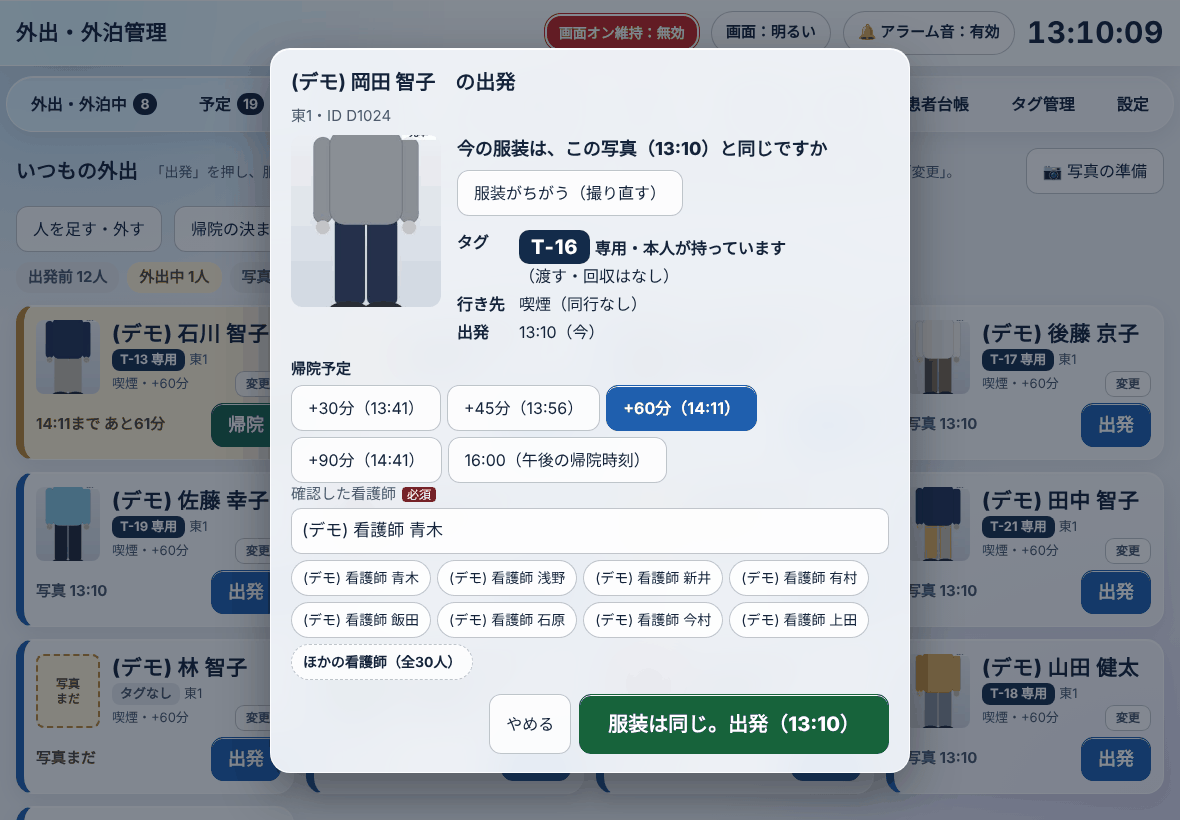
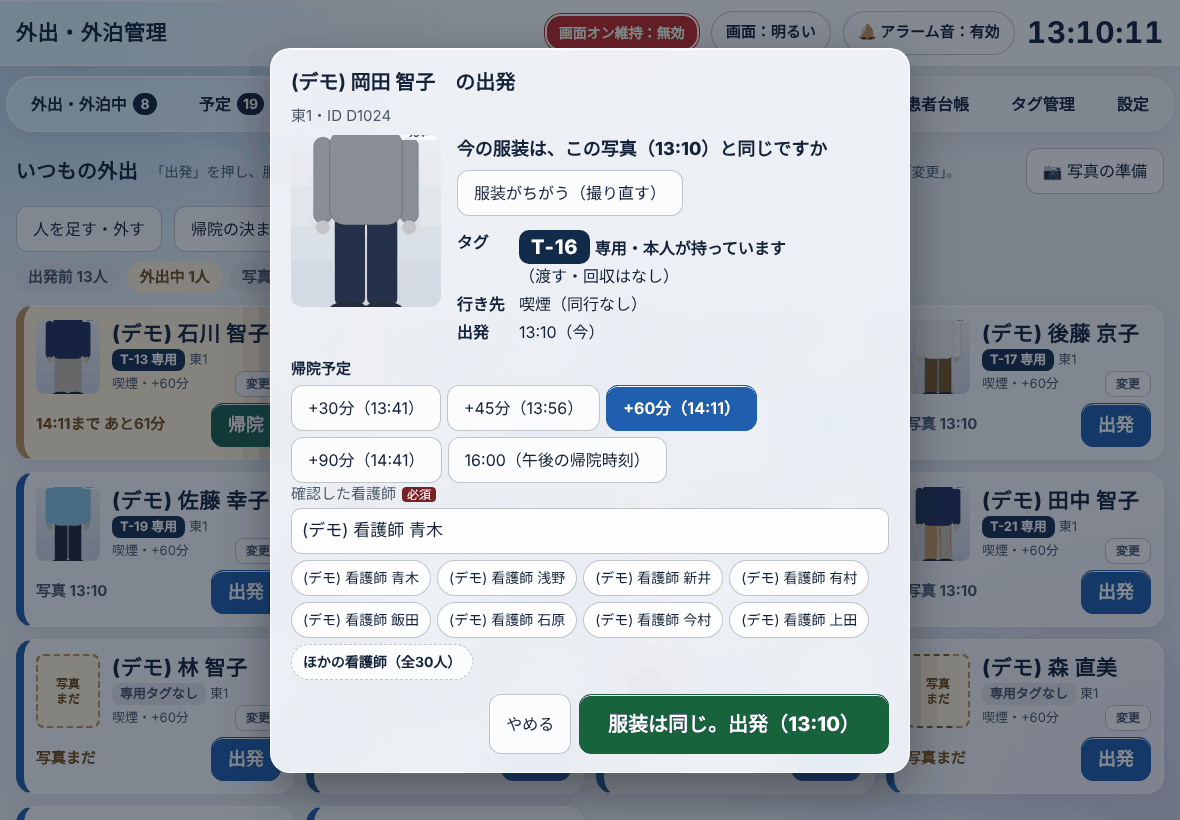
0.3.0：専用タグのない人に、出発の時だけタグを渡せるように
- 出発の画面に「渡すタグ」（必須）：使えるふつうのタグか「タグなし」を選ぶ。選んだタグはタグの行に大きく出る
- 同意書の取得日が台帳にない人・使えるタグがない時は欄を出さず、理由を出してタグなしで出発
- 渡したタグは貸出中になり、カードに「T-xx 貸出中」。帰院で回収を確かめる
- テスト：test_v030_kashidashi（18項目）を追加。41/41 合格
- 画面写真：docs/screens_v0.3.0 に 7〜7c を追加

Claude-Session: https://claude.ai/code/session_01LagbLejwrt8KJ46nEc5gzu

diff --git a/index.html b/index.html
@@ -706,7 +706,8 @@ html{scroll-padding-top:var(--stickt,0px);scroll-padding-bottom:var(--stickb,0px
 .it-cam{display:inline-flex;align-items:center;color:var(--ink);margin:0 0 6px}
 .it-kv{display:grid;grid-template-columns:auto 1fr;gap:4px 14px;font-size:16px;margin:4px 0}.it-kv b{white-space:nowrap}
 .it-lbl{font-size:15px;font-weight:800;margin:10px 0 4px}
-.it-due .btn{white-space:nowrap}
+.it-due .btn,.it-lend .btn{white-space:nowrap}.it-lend .btn{min-width:72px}
+.it-lend.invalid{outline:2px solid var(--bad);outline-offset:3px;border-radius:12px}
 .it-pick{margin-top:8px;max-height:52vh;overflow:auto}
 .it-prow{display:flex;align-items:center;gap:10px;padding:8px 4px;border-bottom:1px solid var(--line2)}.it-prow .sp{flex:1}.it-prow b{white-space:nowrap}
 @media (max-width:1100px) and (min-width:700px){nav button{font-size:15px;padding:0 9px}nav .cnt{margin-left:3px;min-width:22px;padding:0 5px}}
@@ -2797,7 +2798,7 @@ function itTagRow(t,going){return t?`<b>タグ</b><span><span class="it-tagbig">
 /* 画面 */
 function itTileHTML(p,now){
   const o=itActive(p),c=itConf(p),t=ownedTag(p);let cls='',st='';
-  const tagHtml=t?`<span class="it-tag">${esc(t.id)} 専用</span>`:'<span class="it-tag none">タグなし</span>';
+  const tagHtml=t?`<span class="it-tag">${esc(t.id)} 専用</span>`:o&&o.tagId?`<span class="it-tag">${esc(o.tagId)} 貸出中</span>`:'<span class="it-tag none">専用タグなし</span>';
   const phKey=o&&o.hasPhoto?o.id:(hasPrep(p)?prepKey(p.id):'');
   const ph=phKey?`<div class="it-ph"><img data-itph="${esc(phKey)}" alt="服装写真"></div>`:'<div class="it-noph">写真<br>まだ</div>';
   if(itPrepMode){
@@ -2846,12 +2847,19 @@ function dlgItGo(p){
   if(itActive(p)){toast(`${p.name} さんはすでに外出・外泊中です`);return;}
   const c=itConf(p),t=ownedTag(p),cs=consentState(p),opts=itDueOpts(p,now);let shot=null,shotURL=null;
   const pre=hasPrep(p);
+  // 0.3.0：専用タグのない人は、渡すタグを選ぶ（同意書の取得日が台帳にある人だけ）。渡さない時は「タグなし」を押す
+  const lendAv=t?[]:tags.filter(x=>x.status==='available'&&!x.owner).sort((a,b)=>String(a.id).localeCompare(String(b.id),'ja',{numeric:true}));
+  const canLend=!t&&cs.st==='ok'&&lendAv.length>0;
+  const lendNote=t?'':cs.st==='withdrawn'?`同意を撤回しているため（${ymd(cs.date)}）、タグは渡せません。`:cs.st!=='ok'?'同意書の取得日が患者台帳にないため、タグは渡せません。':!lendAv.length?'今、渡せるタグがありません（タグ管理で確かめてください）。':'';
   openDlg(`${p.name}　の出発`,`
     <div class="it-dsub">${esc(wardText(p))}${p.pid?'・ID '+esc(p.pid):''}</div>
     <div class="it-drow"><div class="it-dph" id="itGoPh">${pre?'<img alt="服装写真">':'<div class="it-noph big">写真<br>まだ</div>'}</div>
       <div><div class="it-q" id="itGoQ">${pre?`今の服装は、この写真（${hm(p.itsumoPhotoAt)}）と<span class="nw">同じですか</span>`:'撮っておいた写真がありません。<span class="nw">今、撮ってください。</span>'}</div>
         <label class="btn it-cam">${pre?'服装がちがう（撮り直す）':'📷 撮る'}<input type="file" accept="image/*" capture="environment" id="itGoIn" hidden></label>
-        <div class="it-kv">${itTagRow(t,true)}<b>行き先</b><span>${esc(c.dest)}（同行なし）</span><b>出発</b><span>${hm(now)}（今）</span></div></div></div>
+        <div class="it-kv">${t?itTagRow(t,true):canLend?`<b>タグ</b><span id="itLendShow"><span class="it-sub">下で選んでください</span></span>`:itTagRow(null,true)}<b>行き先</b><span>${esc(c.dest)}（同行なし）</span><b>出発</b><span>${hm(now)}（今）</span></div></div></div>
+    ${canLend?`<div class="it-lbl">渡すタグ<span class="req">必須</span><span class="it-sub" style="font-weight:600;font-size:13px;margin-left:8px">渡さない時は「タグなし」</span></div>
+    <div class="seg it-lend" id="itLendSeg">${lendAv.map(x=>`<button type="button" class="btn" data-itlend="${esc(x.id)}">${esc(x.id)}</button>`).join('')}<button type="button" class="btn" data-itlend="">タグなし</button></div>
+    <input type="hidden" name="lend" value="-">`:lendNote?`<p class="hint" style="margin:6px 0 0">${esc(lendNote)}</p>`:''}
     <div class="it-lbl">帰院予定</div><div class="seg it-due">${opts.map(x=>`<button type="button" class="btn${x.def?' on':''}" data-itdue="${x.at}">${esc(x.label)}</button>`).join('')}</div>
     <input type="hidden" name="due" value="${opts.find(x=>x.def).at}">
     <label>確認した看護師<span class="req">必須</span><input name="nurse" list="nurseList" value="${esc(settings.itsumoNurse||'')}"></label>
@@ -2863,23 +2871,30 @@ function dlgItGo(p){
     if(t&&cs.st!=='ok')E.push([null,cs.st==='withdrawn'?'同意を撤回しているため、専用タグを持たせて出発できません（患者台帳で専用タグを外してください）':'同意書の取得日が患者台帳にないため出発できません（患者台帳で取得日を入れてください）']);
     if(itActive(p))E.push([null,`${p.name} さんはすでに外出・外泊中です`]);
     if(t&&!(t.status==='available'))E.push([null,`専用タグ ${t.id} は今「${TAG_ST[t.status]||t.status}」です。タグ管理で確かめてください`]);
+    const lendId=canLend?val(f,'lend'):'';let lt=null;
+    if(canLend&&lendId==='-')E.push([$('#itLendSeg'),'渡すタグを選んでください（渡さない時は「タグなし」）']);
+    else if(lendId){lt=tags.find(x=>x.id===lendId);if(!lt||lt.status!=='available'||lt.owner)E.push([$('#itLendSeg'),`タグ ${lendId} は今は使えません。ほかのタグを選んでください`]);}
     if(E.length)return fieldErrs(f,E);
+    const gt=t||lt;   // 持たせるタグ（専用 または 今回だけ渡す）
     let blob=shot;if(!blob&&pre)blob=await dbGet('photos',prepKey(p.id));
     const o={id:uid(),name:p.name,pid:p.pid||'',kana:p.kana||'',sex:p.sex||'',age:ageOf(p)||'',ward:p.ward||'',adm:p.adm||'',kind:'外出',departAt:at,dueAt:due,dueAtOriginal:due,
       dest:c.dest,selfTel:p.selfTel||'',famName:p.famName||'',famRel:p.famRel||'',famTel:p.famTel||'',alone:true,compName:'',compRel:'',compTel:'',clothes:'',
-      tagId:t?t.id:'',consent:!!t,consentDate:t?cs.date:'',departNurse:nurse,note:'いつもの外出',status:'out',createdAt:at,hasPhoto:!!blob,itsumo:true,tagOwned:!!t,log:[]};
+      tagId:gt?gt.id:'',consent:!!gt,consentDate:gt?cs.date:'',departNurse:nurse,note:'いつもの外出',status:'out',createdAt:at,hasPhoto:!!blob,itsumo:true,tagOwned:!!t,log:[]};
     if(p.demo)o.demo=true;
-    addLog(o,'外出に出発（いつもの外出）'+(t?`（専用タグ ${t.id}・同意書 ${ymd(o.consentDate)} 取得）`:'（タグなし）'),nurse);
+    addLog(o,'外出に出発（いつもの外出）'+(t?`（専用タグ ${t.id}・同意書 ${ymd(o.consentDate)} 取得）`:lt?`（タグ ${lt.id} を渡す・同意書 ${ymd(o.consentDate)} 取得）`:'（タグなし）'),nurse);
     if(blob)addLog(o,shot?'服装写真を登録（出発時に撮影）':`服装写真を確認（${hm(p.itsumoPhotoAt)} に撮影したもの）`,nurse);
     o.patientId=(await upsertPatient(o,p.id)).id;
     await saveOuting(o);if(blob)await dbPut('photos',blob,o.id);
     await dropPrep(p);
-    if(t){t.status='inuse';t.outingId=o.id;await saveTag(t);}
+    if(gt){gt.status='inuse';gt.outingId=o.id;await saveTag(gt);}
     outings.push(o);settings.itsumoNurse=nurse;rememberNurse(nurse);if(shotURL)URL.revokeObjectURL(shotURL);
     lastSig='';itSig='';await tick();toast(`${p.name} さんが出発しました（帰院予定 ${hm(due)}）`);
   }}]);
   const goBtn=$('#dlgActions').lastElementChild;const label=()=>{goBtn.textContent=(shot||pre?'服装は同じ。出発':'写真なしで出発')+`（${hm(Date.now())}）`;};label();
   if(pre)getPhotoURL(prepKey(p.id)).then(u=>{const im=$('#itGoPh img');if(im&&u)im.src=u;});
+  if(canLend)$('#itLendSeg').addEventListener('click',e=>{const b=e.target.closest('[data-itlend]');if(!b)return;$$('#itLendSeg [data-itlend]').forEach(x=>x.classList.toggle('on',x===b));
+    $('#dlgForm').elements.lend.value=b.dataset.itlend;$('#itLendSeg').classList.remove('invalid');$('#dlgBody').querySelectorAll('.ferr').forEach(x=>x.remove());
+    $('#itLendShow').innerHTML=b.dataset.itlend?`<span class="it-tagbig">${esc(b.dataset.itlend)}</span> <span class="nw">（今回だけ渡す・帰院で回収）</span>`:'<span class="it-tagbig none">タグなし</span> <span class="nw">（タグを持たずに出かけます）</span>';});
   $('#dlgBody').querySelector('.it-due').addEventListener('click',e=>{const b=e.target.closest('[data-itdue]');if(!b)return;$$('#dlgBody [data-itdue]').forEach(x=>x.classList.toggle('on',x===b));$('#dlgForm').elements.due.value=b.dataset.itdue;});
   $('#itGoIn').addEventListener('change',async e=>{const f=e.target.files[0];e.target.value='';if(!f)return;
     try{shot=await compress(f);if(shotURL)URL.revokeObjectURL(shotURL);shotURL=URL.createObjectURL(shot);$('#itGoPh').innerHTML=`<img src="${shotURL}" alt="服装写真">`;

diff --git a/tests/test_v030_kashidashi.py b/tests/test_v030_kashidashi.py
@@ -1,0 +1,99 @@
+"""0.3.0「いつもの外出」で、専用タグのない人に出発の時だけタグを渡す：assert で確かめる。
+(a) 専用タグのない人（同意書の取得日あり）：出発の画面に「渡すタグ（必須）」。使えるふつうのタグと「タグなし」が並び、専用タグ・貸出中のタグは出ない。
+(b) 何も選ばずに出発 → 欄のそばに知らせ。タグを選ぶとタグの行に大きく出る。
+(c) 出発 → 記録にタグ（専用ではない）、タグは貸出中。カードに「T-xx 貸出中」。
+(d) 帰院：回収のチェックが出る（回収した → 利用可）。記録は「回収」。
+(e) 「タグなし」を選んで出発もできる（タグは空）。
+(f) 同意書の取得日がない人：渡すタグの欄は出ず、「タグは渡せません」の説明。タグなしで出発できる。
+(g) 専用タグのある人には、渡すタグの欄は出ない。
+"""
+import os
+from playwright.sync_api import sync_playwright
+from v200_util import jst
+
+HERE = os.path.dirname(os.path.abspath(__file__)); APP = os.path.dirname(HERE)
+URL = 'file://' + APP + '/index.html'
+N = [0]
+errs = []
+
+
+def ok(cond, msg=''):
+    N[0] += 1
+    assert cond, msg
+
+
+def btn(pg, text):
+    pg.locator('#dlgActions button', has_text=text).click(); pg.wait_for_timeout(500)
+
+
+with sync_playwright() as p:
+    b = p.chromium.launch()
+    ctx = b.new_context(viewport={'width': 1180, 'height': 820}, timezone_id='Asia/Tokyo', device_scale_factor=1, has_touch=True)
+    pg = ctx.new_page(); pg.on('pageerror', lambda e: errs.append(str(e)))
+    pg.clock.install(time=jst(2026, 11, 18, 13, 0))
+    pg.goto(URL); pg.wait_for_timeout(600); pg.click('#startOv'); pg.wait_for_timeout(200)
+    pg.evaluate("window.tone=function(){}")
+    pg.click('nav button[data-tab=settings]'); pg.click('#demoIn')
+    pg.wait_for_function("document.getElementById('toast').textContent.includes('デモデータを入れました')", timeout=30000)
+    # 専用タグのない「いつもの外出」の人を3人：D1041・D1042（同意書あり）、D1043（同意書なし）
+    ids = pg.evaluate("""(()=>{const r={};for(const [pid,c] of [['D1041','2026-10-01'],['D1042','2026-10-01'],['D1043','']]){
+      const p=patients.find(q=>q.pid===pid);p.itsumo={on:true,dest:'喫煙'};p.consentDate=c;p.consentWithdrawn='';dbPut('patients',p);r[pid]=p.id;}
+      itSig='';return r;})()""")
+    pg.click('nav button[data-tab=itsumo]'); pg.wait_for_timeout(800)
+    a, b2, c = ids['D1041'], ids['D1042'], ids['D1043']
+    ok('専用タグなし' in pg.inner_text(f'[data-itp="{a}"]'))
+
+    # (a)
+    pg.click(f'[data-itgo="{a}"]'); pg.wait_for_timeout(500)
+    ok(pg.locator('#itLendSeg').count() == 1)
+    lend = pg.evaluate("[...document.querySelectorAll('#itLendSeg [data-itlend]')].map(x=>x.dataset.itlend)")
+    av = pg.evaluate("tags.filter(t=>t.status==='available'&&!t.owner).map(t=>t.id)")
+    ok(lend[-1] == '' and sorted(lend[:-1]) == sorted(av) and len(av) > 0, (lend, av))
+    ok(not any(pg.evaluate("tags.filter(t=>t.owner||t.status!=='available').map(t=>t.id)").count(x) for x in lend[:-1]))
+    # (b)
+    pg.fill('#dlgBody input[name=nurse]', '(デモ) 看護師 見本')
+    btn(pg, '出発')
+    ok(pg.locator('#dlg').evaluate('d=>d.open') and '渡すタグを選んでください' in pg.inner_text('#dlg .ferr'), pg.inner_text('#dlg'))
+    tid = lend[0]
+    pg.click(f'#itLendSeg [data-itlend="{tid}"]'); pg.wait_for_timeout(200)
+    ok(tid in pg.inner_text('#itLendShow') and '回収' in pg.inner_text('#itLendShow'))
+    ok(pg.locator('#dlg .ferr').count() == 0)
+    btn(pg, '出発')
+    # (c)
+    o = pg.evaluate("id=>{const o=outings.find(x=>x.patientId===id&&x.status==='out');return o&&{id:o.id,tag:o.tagId,own:o.tagOwned,cons:o.consent,log:o.log.map(l=>l.text).join('|')}}", a)
+    ok(o and o['tag'] == tid and not o['own'] and o['cons'] and f'タグ {tid} を渡す' in o['log'], o)
+    ok(pg.evaluate("t=>{const x=tags.find(y=>y.id===t);return x.status+':'+(x.owner||'')}", tid) == 'inuse:')
+    pg.wait_for_timeout(1200)
+    ok(f'{tid} 貸出中' in pg.inner_text(f'[data-itp="{a}"]'), pg.inner_text(f'[data-itp="{a}"]'))
+    # (d) 帰院：回収
+    pg.click(f'[data-itback="{o["id"]}"]'); pg.wait_for_timeout(400)
+    ok(pg.locator('#dlgBody input[name=tagBack]').count() == 1 and pg.locator('#dlgBody input[name=tagBack]').is_checked())
+    btn(pg, '帰院')
+    r = pg.evaluate("id=>{const o=outings.find(x=>x.id===id);const t=tags.find(x=>x.id===o.tagId);return {st:o.status,back:o.tagReturned,kept:!!o.tagKept,ts:t.status,ow:t.owner||'',col:COLS.find(c=>c[0]==='タグ回収')[1](o)}}", o['id'])
+    ok(r == {'st': 'returned', 'back': True, 'kept': False, 'ts': 'available', 'ow': '', 'col': '回収'}, r)
+    # (e) タグなし
+    pg.wait_for_timeout(800)
+    pg.click(f'[data-itgo="{b2}"]'); pg.wait_for_timeout(500)
+    pg.click('#itLendSeg [data-itlend=""]'); pg.wait_for_timeout(200)
+    ok('タグなし' in pg.inner_text('#itLendShow'))
+    btn(pg, '出発')
+    o2 = pg.evaluate("id=>{const o=outings.find(x=>x.patientId===id&&x.status==='out');return o&&{tag:o.tagId,log:o.log.map(l=>l.text).join('|')}}", b2)
+    ok(o2 and o2['tag'] == '' and '（タグなし）' in o2['log'], o2)
+    # (f) 同意書なし
+    pg.wait_for_timeout(800)
+    pg.click(f'[data-itgo="{c}"]'); pg.wait_for_timeout(500)
+    ok(pg.locator('#itLendSeg').count() == 0 and 'タグは渡せません' in pg.inner_text('#dlgBody'))
+    ok(pg.locator('#dlgBody .it-tagbig.none').count() == 1)
+    btn(pg, '出発')
+    ok(pg.evaluate("id=>!!outings.find(x=>x.patientId===id&&x.status==='out'&&!x.tagId)", c))
+    # (g) 専用タグのある人
+    pg.wait_for_timeout(800)
+    d = pg.evaluate("patients.find(p=>p.pid==='D1022').id")
+    pg.click(f'[data-itgo="{d}"]'); pg.wait_for_timeout(500)
+    ok(pg.locator('#itLendSeg').count() == 0 and '専用' in pg.inner_text('#dlgBody .it-kv'))
+    pg.screenshot(path=os.path.join(HERE, 'out', 'v030_kashidashi_g.png'))
+    btn(pg, 'やめる')
+    ctx.close(); b.close()
+
+print('checks', N[0])
+print('errors', errs)

diff --git a/tests/make_screens_v030.py b/tests/make_screens_v030.py
@@ -59,8 +59,12 @@ with sync_playwright() as p:
     pg.click(f'[data-itgo="{o}"]'); pg.wait_for_timeout(400); pg.fill('#dlgBody input[name=nurse]', '(デモ) 看護師 青木'); pg.locator('#dlgActions button').last.click(); pg.wait_for_timeout(600)
     oid = pg.evaluate("id=>outings.find(x=>x.patientId===id&&x.status==='out').id", o)
     pg.click(f'[data-itback="{oid}"]'); pg.wait_for_timeout(500); shot(pg, '6_kiin_tag'); pg.locator('#dlgActions button', has_text='やめる').click(); pg.wait_for_timeout(300)
-    x = pg.evaluate("(()=>{const p=patients.find(q=>q.pid==='D1041');p.itsumo={on:true,dest:'喫煙'};dbPut('patients',p);itSig='';renderItsumo(true);return p.id})()"); pg.wait_for_timeout(600)
-    pg.click(f'[data-itgo="{x}"]'); pg.wait_for_timeout(500); shot(pg, '7_shuppatsu_tagnashi'); pg.locator('#dlgActions button', has_text='やめる').click(); pg.wait_for_timeout(300)
+    x = pg.evaluate("(()=>{const p=patients.find(q=>q.pid==='D1041');p.itsumo={on:true,dest:'喫煙'};p.consentDate='2026-10-01';p.consentWithdrawn='';dbPut('patients',p);itSig='';renderItsumo(true);return p.id})()"); pg.wait_for_timeout(600)
+    pg.click(f'[data-itgo="{x}"]'); pg.wait_for_timeout(500); shot(pg, '7_shuppatsu_tag_erabu')
+    pg.locator('#itLendSeg [data-itlend]').first.click(); pg.wait_for_timeout(300); shot(pg, '7b_shuppatsu_tag_eranda')
+    pg.locator('#dlgActions button', has_text='やめる').click(); pg.wait_for_timeout(300)
+    y = pg.evaluate("(()=>{const p=patients.find(q=>q.pid==='D1043');p.itsumo={on:true,dest:'喫煙'};p.consentDate='';p.consentWithdrawn='';dbPut('patients',p);itSig='';renderItsumo(true);return p.id})()"); pg.wait_for_timeout(600)
+    pg.click(f'[data-itgo="{y}"]'); pg.wait_for_timeout(500); shot(pg, '7c_shuppatsu_doui_nashi'); pg.locator('#dlgActions button', has_text='やめる').click(); pg.wait_for_timeout(300)
     pg.click(f'[data-itedit="{o}"]'); pg.wait_for_timeout(400); shot(pg, '8_henkou'); pg.locator('#dlgActions button', has_text='やめる').click(); pg.wait_for_timeout(300)
     pg.click(f'[data-itgo="{pid_id(pg, "D1024")}"]'); pg.wait_for_timeout(600); shot(pg, '5_shuppatsu_gogo_1310')
     ctx.close()

diff --git a/CLAUDE.md b/CLAUDE.md
@@ -102,6 +102,9 @@
   `itDueOpts`：amEnd より前の出発は amEnd。amEnd〜pmEnd は pmPlus 分後、ただし pmEnd まで pmPlus 分を切っていたら pmEnd。pmEnd 以降は pmPlus 分後。
   決まった時刻より後になる「+○分」の候補は出さない。カードの「11:30まで／+60分／16:00まで」は `itDueText`。
 - 出発（`dlgItGo`）・帰院（`dlgItBack`）の画面に「タグ」の行（`itTagRow`。専用なら大きく「T-13 専用」、ないなら「タグなし」）。
+- 専用タグのない人は、出発の画面で「渡すタグ」（`#itLendSeg`、必須）を選ぶ：使えるふつうのタグ（利用可・専用でない）か「タグなし」。
+  同意書の取得日が台帳にない人・撤回した人・使えるタグがない時は欄を出さず、説明を出してタグなしで出発。渡したタグは帰院で回収を確かめる（ふつうの外出と同じ）。
+  カードには外出中だけ「T-xx 貸出中」、ふだんは「専用タグなし」。
   看護師名は必須（前回の人 `settings.itsumoNurse` を入れておく）。記録は `o.itsumo=true`、`note:'いつもの外出'`、ふつうの外出と同じ形（アラーム・一覧・集計はそのまま）。
 - 帰院（`dlgItBack`）：看護師名は必須。写真は消える。「帰院時の確認も書く」でふつうの帰院登録（`dlgReturn`）に移れる。
 - 服装の写真の準備：photos ストアに `'prep:'+患者の台帳id` で置き、`p.itsumoPhotoAt` に撮った時刻。出発でその外出の写真（キーは外出の id）に移し、準備の分は消す（帰院で消える決まりはそのまま）。
@@ -109,7 +112,7 @@
 - 専用タグ：`tags` の `owner` に患者の台帳id。ほかの人の新規登録・予定の出発では選べない（`tagFree`）。帰院で回収せず `available` に戻し（`itTagOnReturn`）、記録に `o.tagKept=true`（一覧の「タグ回収」は「本人が所持（専用）」）。
   タグ管理に「〇〇さん 専用」と「専用をやめる」。持たせられるのは同意書の取得日が台帳にある人だけ。
 - デモ：台帳の21〜32人目（D1021〜D1032）が「いつもの外出」。専用タグは T-11 から空いている番号（デモの予定が T-10〜T-12 を予約するので、ふつうは T-13〜T-24）。9人は写真を撮っておいた状態。
-- テスト：`tests/test_v020_itsumo.py`・`tests/test_v030_kiin_kimari.py`。画面写真は `tests/make_screens_v020.py`・`make_screens_v030.py`（suite には入れない。256色で保存）。
+- テスト：`tests/test_v020_itsumo.py`・`tests/test_v030_kiin_kimari.py`・`tests/test_v030_kashidashi.py`。画面写真は `tests/make_screens_v020.py`・`make_screens_v030.py`（suite には入れない。256色で保存）。
 
 ## 報告（日本語）
 最後に次の3つを分けて書く：

diff --git a/docs/改善メモ.md b/docs/改善メモ.md
@@ -17,8 +17,9 @@
 - 自分で決めたこと（先生の確認待ち）：同じ日の2回目の外出では写真を撮り直す（帰院で写真が消える決まりを弱めないため）／同行は「なし」だけ。
 - 0.3.0（2026-11-18 先生の指示）：帰院予定は病棟の決まりで選ぶ。お昼は 11:30 まで、午後は 16:00 まで。午前は 11:30、午後は1時間後、16:00 まで1時間を切ったら 16:00。
   決まりはアプリ全体で1つにし「帰院の決まり」で変えられるようにした（人ごとの帰院予定の設定はやめた）。
-  16:00 を過ぎた後の出発は 60分後にしている（先生の確認待ち）。
+  16:00 を過ぎた後の出発は 60分後（先生の了承 2026-11-18）。
 - 0.3.0（先生の指摘）：変更はカードの「変更」からもできるようにした。出発・帰院の画面に「タグ」の行（T-13 専用／タグなし）を大きく出す。
+- 0.3.0（先生の指示）：専用タグのない人は、出発の時にふつうのタグを渡せる（「渡すタグ」で選ぶ。必須で、渡さない時は「タグなし」を押す）。帰院で回収を確かめる。
 
 **T02 まとめて出発・まとめて帰院**（未着手）
 - 名前の一覧から何人も選び、看護師を1回選んで「まとめて出発」。帰院は戻った人の名前を順に押す。予定を過ぎて残った人だけ赤く目立たせる。
